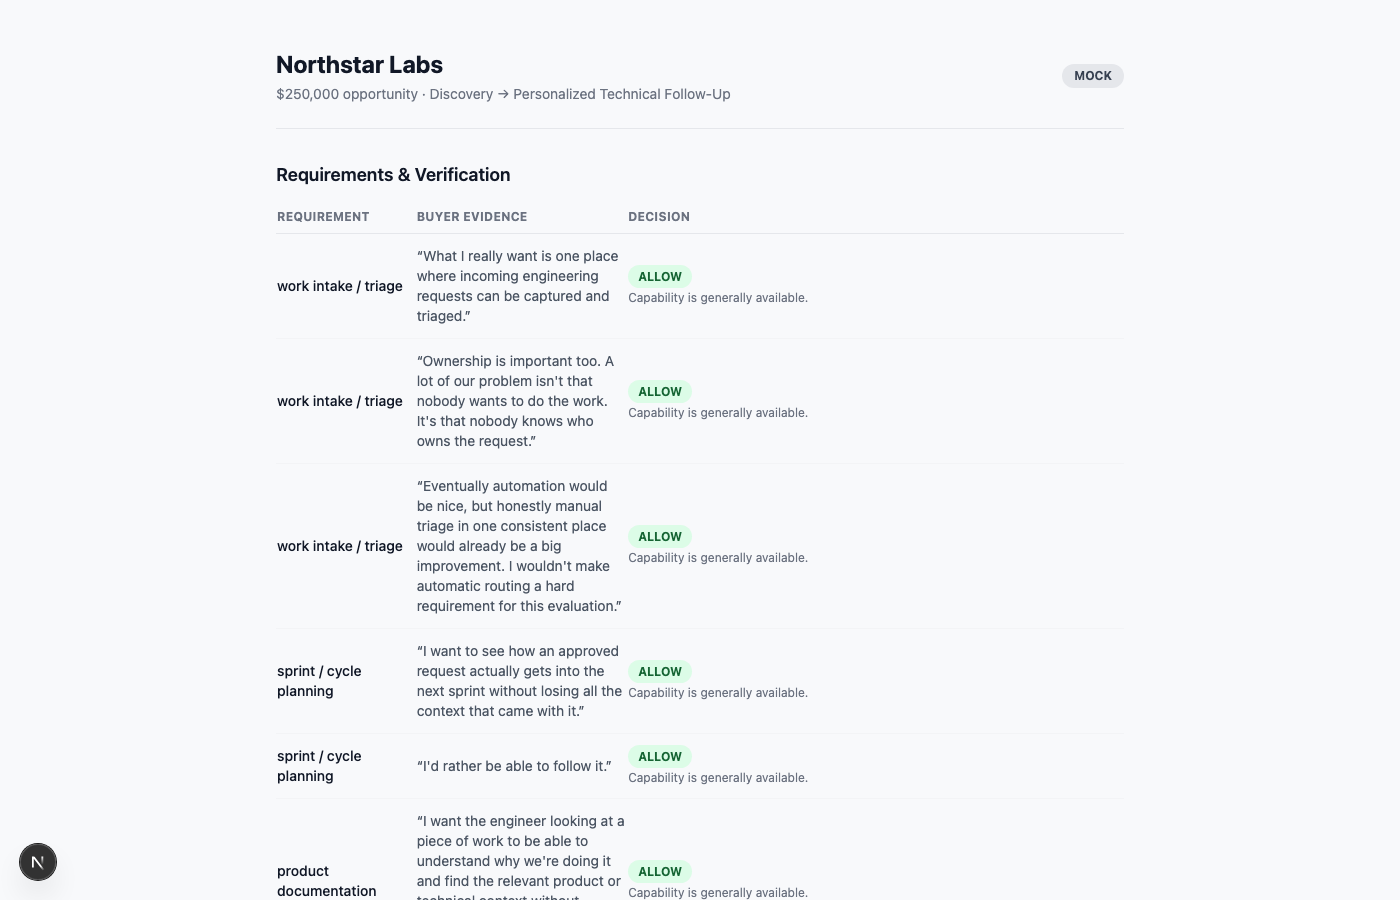
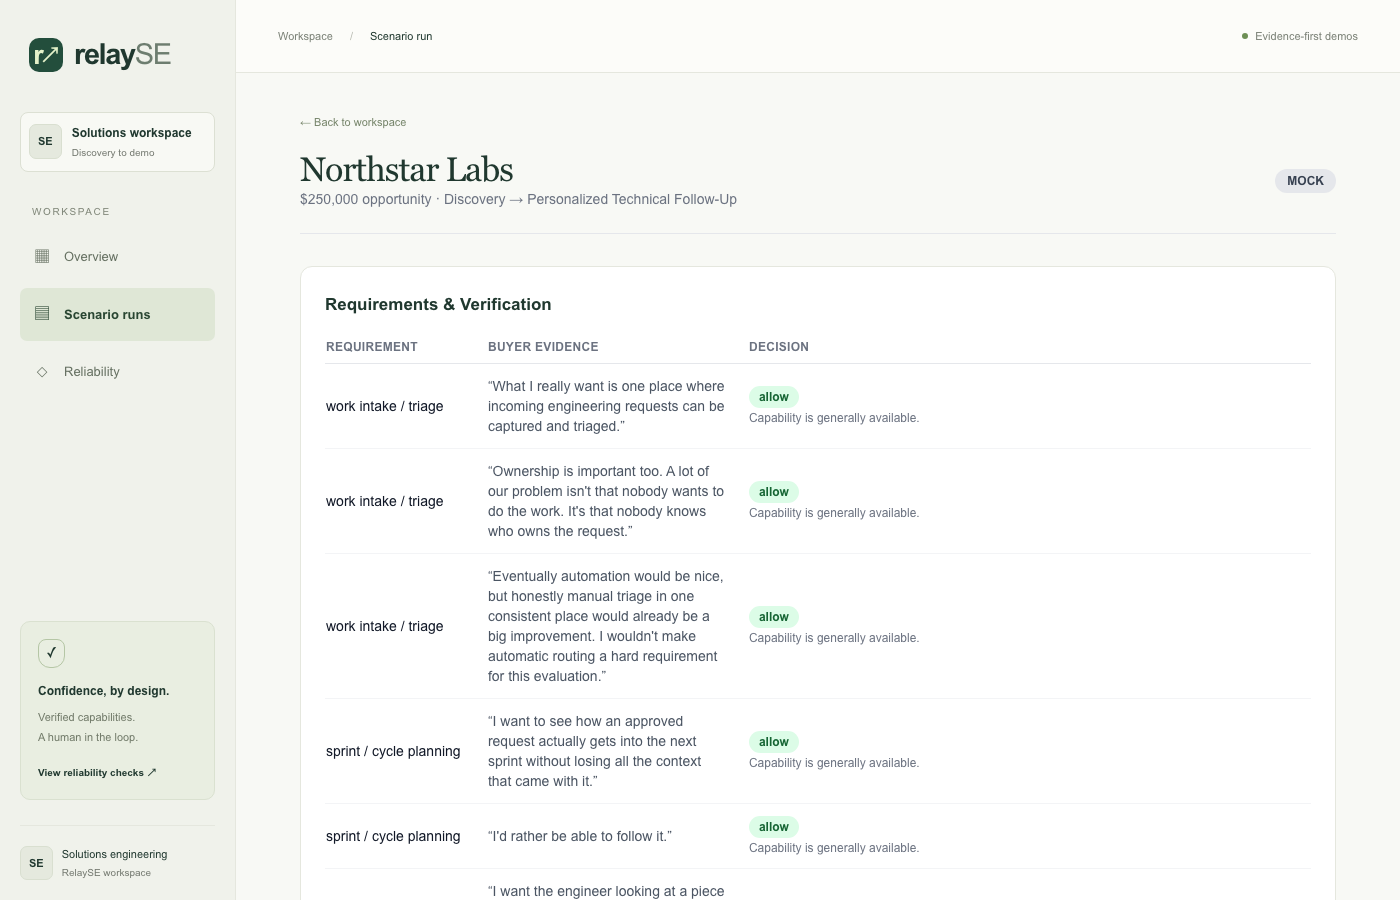
Update README screenshots to reflect the redesigned UI
Retook all screenshots against the new sidebar workspace layout,
added a mobile responsive-layout screenshot.

diff --git a/README.md b/README.md
@@ -73,6 +73,10 @@ The agent's actual, live-run output: 3 verified capabilities become filmed scene
 
 ![Approval and actions](docs/screenshots/05-approval-actions.png)
 
+**Responsive mobile layout:**
+
+<img src="docs/screenshots/06-mobile-home.png" alt="Mobile responsive layout" width="360">
+
 ---
 
 ## 4. External Apps Used (all 5 required, all verified live)
